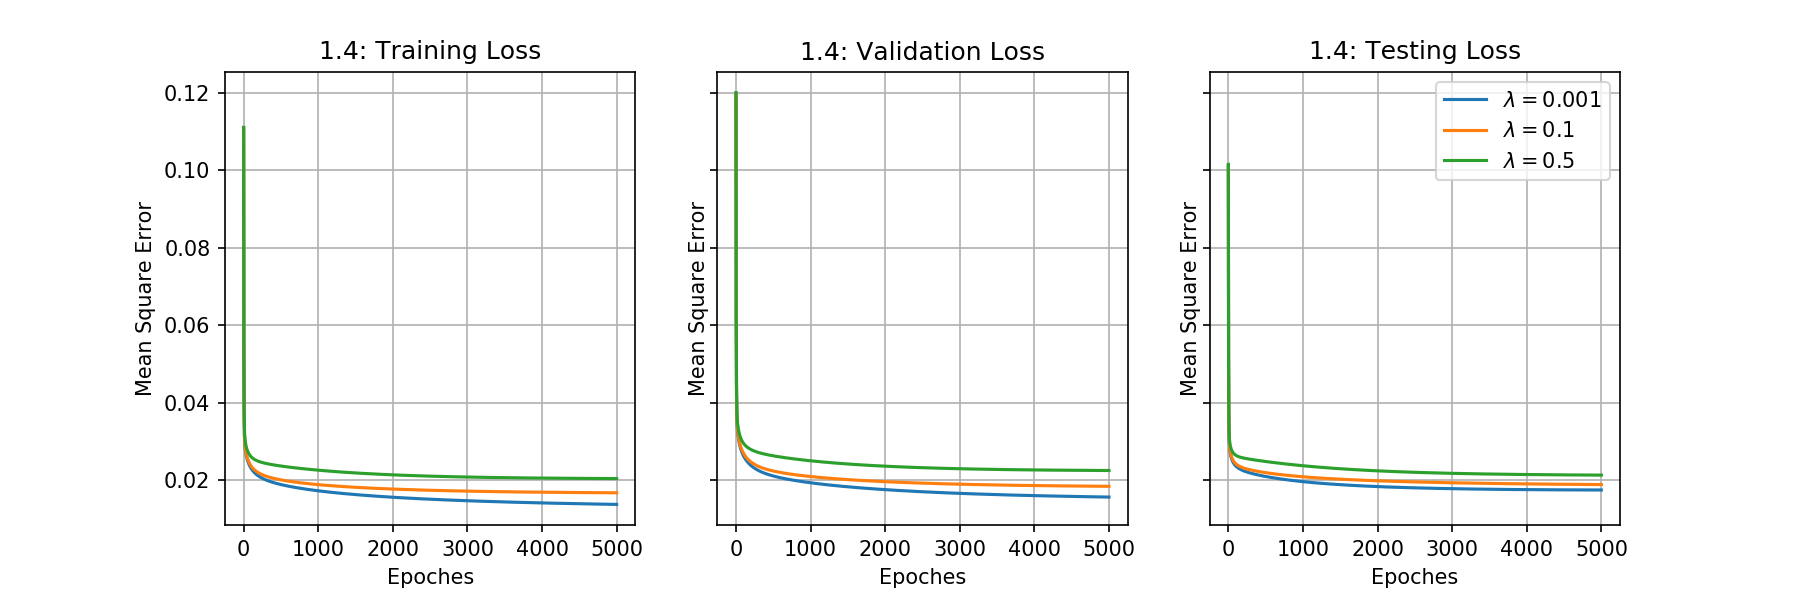
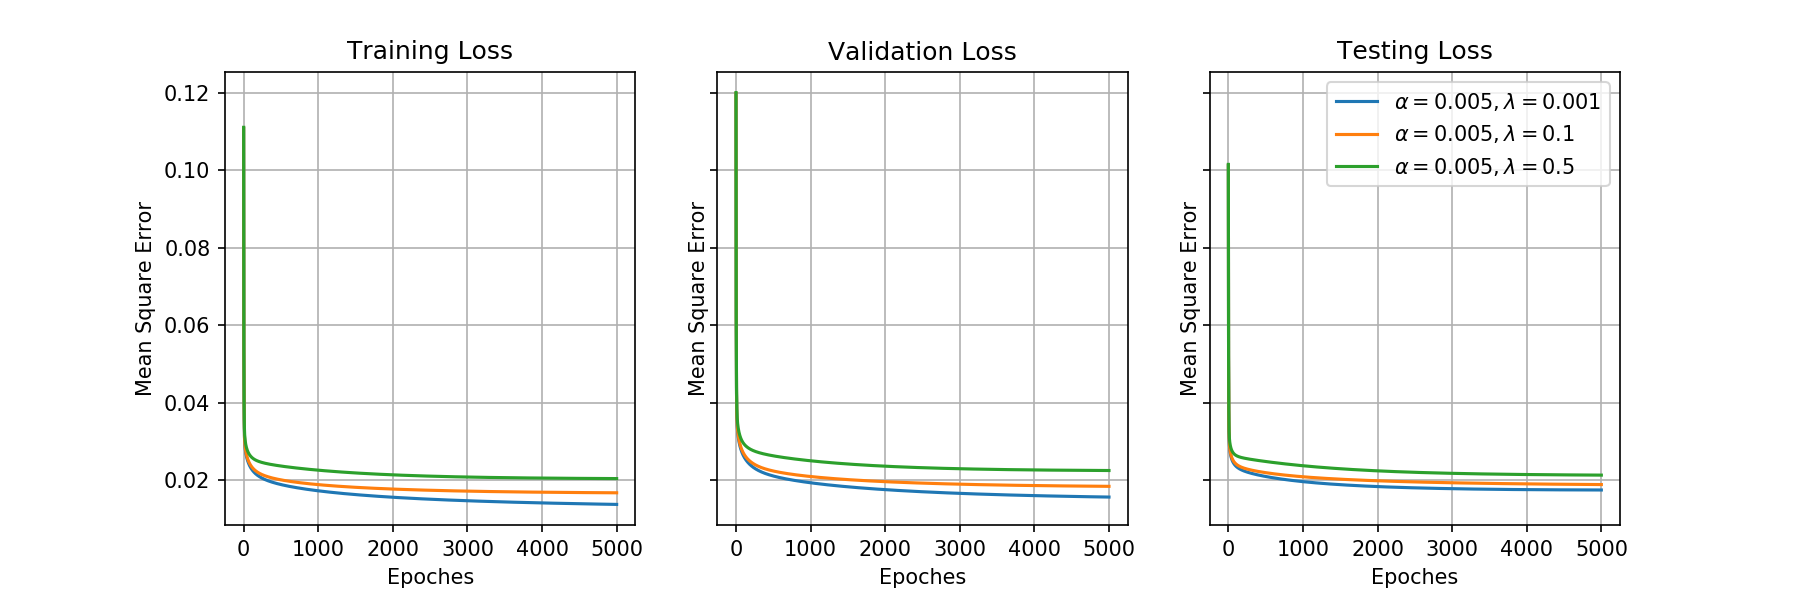
Q1

diff --git a/a1/starter.py b/a1/starter.py
@@ -96,7 +96,7 @@ def buildGraph(beta1=None, beta2=None, epsilon=None, lossType=None, learning_rat
 
 if __name__ == '__main__':
     linear_regression_epochs = 5000
-    run13 = False
+    run13 = True
     run14 = True
     save_linear_regression = False
     plot_linear_regression = True
@@ -110,22 +110,26 @@ if __name__ == '__main__':
     testDataVec = testData.reshape([testData.shape[0], testData.shape[1]*testData.shape[2]]).T
     
     if linear_regression_epochs:
-        #%% Part 1.3
-        if run13:
+        def train(alphaLambdList, figfilename=None):
             mse = []
             validMse = []
             testMse = []
             weight = []
             bias = []
-            alphaList = [0.005, 0.001, 0.0001]
-            for alpha in alphaList:
-                print('Alpha =', alpha)
+            accu = []
+            
+            def accuracy(x, y):
+                y = y.T
+                return np.count_nonzero((W.T.dot(x) + b > 0.5) == y) * 1.0 / y.size
+                
+            for alpha, lambd in alphaLambdList:
+                print('Alpha =', alpha, 'Lambda =', lambd)
                 
                 W = np.zeros([trainDataVec.shape[0], 1])
                 b = np.array([[0]])
                 W, b, mseList, validMseList, testMseList = grad_descent(
                         W, b, trainDataVec, trainTarget.T, alpha, 
-                        linear_regression_epochs, 0, 1e-6,
+                        linear_regression_epochs, lambd, 1e-6,
                         validDataVec, validTarget.T, testDataVec, testTarget.T)
                 
                 mse.append(mseList)
@@ -135,6 +139,12 @@ if __name__ == '__main__':
                 weight.append(W)
                 bias.append(b)
                 
+                accu.append((
+                        accuracy(trainDataVec, trainTarget), 
+                        accuracy(validDataVec, validTarget), 
+                        accuracy(testDataVec, testTarget), 	
+                        ))
+                
             mse = np.array(mse)
             validMse = np.array(validMse)
             testMse = np.array(testMse)
@@ -142,15 +152,16 @@ if __name__ == '__main__':
             weight = np.array(weight)
             bias = np.array(bias)
             
-            if save_linear_regression:
-                np.savez('linear_regression_results13.npz', mse=mse, weight=weight, bias=bias)
+            accu = np.array(accu)
+            
+            if save_linear_regression and figfilename is not None:
+                np.savez(figfilename + '.npz', mse=mse, weight=weight, bias=bias)
             
             if plot_linear_regression:
-                #%%
                 fig, axs = plt.subplots(1, 3, figsize=(12, 4), sharey=True)
                 for i, (err, title) in enumerate(zip(
                         (mse, validMse, testMse),
-                        ('1.3: Training Loss', '1.3: Validation Loss', '1.3: Testing Loss'),
+                        ('Training Loss', 'Validation Loss', 'Testing Loss'),
                         )):
                     axs[i].plot(err.T)
                     axs[i].set_title(title)
@@ -158,67 +169,28 @@ if __name__ == '__main__':
                     axs[i].set_xlabel('Epoches')
                     axs[i].set_ylabel('Mean Square Error')
                 
-                axs[i].legend([r'$\alpha=%g$' % i for i in alphaList])
-                plt.savefig('fig13.png', dpi=150)
+                axs[i].legend([r'$\alpha=%g,\lambda=%g$' % (alpha, lambd) 
+                                for alpha, lambd in alphaLambdList])
+                if figfilename:
+                    plt.savefig(figfilename, dpi=150)
                 
-                print('Alpha\tTraining Error\tValidation Error\tTesting Error')
-                for alpha, mseList, validList, testList in zip(alphaList, mse, validMse, testMse):
-                    print(alpha, '\t', mseList[-1], '\t', validList[-1], '\t', testList[-1])
-                
+                print('Alpha\tLambda\tTraining Error\tValidation Error\tTesting Error\tTraining Accuracy\tValidation Accuracy\tTesting Accuracy')
+                for (alpha, lambd), mseList, validList, testList, accuList in zip(
+                        alphaLambdList, mse, validMse, testMse, accu):
+                    print(alpha, lambd, mseList[-1], validList[-1], testList[-1], 
+                          *accuList,
+                          sep='\t')
+        
+        
+        
+        #%% Part 1.3
+        if run13:
+            train([(0.005, 0), (0.001, 0), (0.0001, 0)], figfilename='fig13.png')
+            
         #%% Part 1.4
         if run14:
-            mse = []
-            validMse = []
-            testMse = []
-            weight = []
-            bias = []
-            alpha = 0.005
-            lambdList = (0.001, 0.1, 0.5)
-            for lambd in lambdList:
-                print('Lambda =', lambd)
-                
-                W = np.zeros([trainDataVec.shape[0], 1])
-                b = np.array([[0]])
-                W, b, mseList, validMseList, testMseList = grad_descent(
-                            W, b, trainDataVec, trainTarget.T, alpha, 
-                            linear_regression_epochs, lambd, 1e-6,
-                            validDataVec, validTarget.T, testDataVec, testTarget.T)
-                
-                mse.append(mseList)
-                validMse.append(validMseList)
-                testMse.append(testMseList)
-                weight.append(W)
-                bias.append(b)
-                
-            mse = np.array(mse)
-            validMse = np.array(validMse)
-            testMse = np.array(testMse)
-            weight = np.array(weight)
-            bias = np.array(bias)
+            train([(0.005, 0.001), (0.005, 0.1), (0.005, 0.5)], figfilename='fig14.png')
             
-            if save_linear_regression:
-                np.savez('linear_regression_results14.npz', mse=mse, weight=weight, bias=bias)
-                
-            if plot_linear_regression:
-                #%%
-                fig, axs = plt.subplots(1, 3, figsize=(12, 4), sharey=True)
-                for i, (err, title) in enumerate(zip(
-                        (mse, validMse, testMse),
-                        ('1.4: Training Loss', '1.4: Validation Loss', '1.4: Testing Loss'),
-                        )):
-                    axs[i].plot(err.T)
-                    axs[i].set_title(title)
-                    axs[i].grid()
-                    axs[i].set_xlabel('Epoches')
-                    axs[i].set_ylabel('Mean Square Error')
-                
-                axs[i].legend([r'$\lambda=%g$' % i for i in lambdList])
-                plt.savefig('fig14.png', dpi=150)
-                
-                print('Lambda\tTraining Error\tValidation Error\tTesting Error')
-                for lambd, mseList, validList, testList in zip(lambdList, mse, validMse, testMse):
-                    print(lambd, '\t', mseList[-1], '\t', validList[-1], '\t', testList[-1])
-                
         #%% 1.5 Normal equation
         X = trainDataVec.T
         X = np.hstack([np.ones([X.shape[0], 1]), X])
